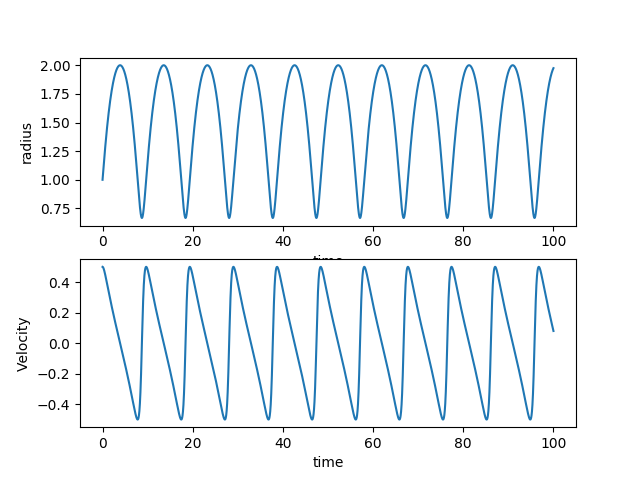
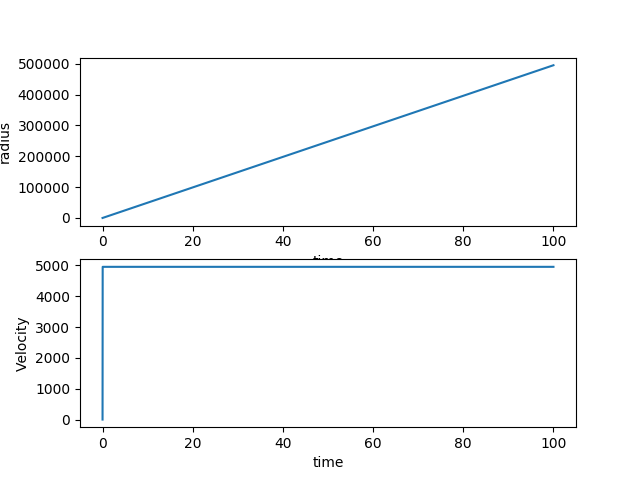
added codes

diff --git a/doc/src/Homeworks/hw7/Program/Rpot.py b/doc/src/Homeworks/hw7/Program/Rpot.py
@@ -28,9 +28,6 @@ def data_path(dat_id):
 def save_fig(fig_id):
     plt.savefig(image_path(fig_id) + ".png", format='png')
 
-
-# Simple Gravitational Force   -alpha/r
-    
 DeltaT = 0.01
 #set up arrays 
 tfinal = 100.0
@@ -39,25 +36,25 @@ n = ceil(tfinal/DeltaT)
 t = np.zeros(n)
 v = np.zeros(n)
 r = np.zeros(n)
-# Constants of the model, setting all variables to one for simplicity
-alpha = 1.0
+# Constants of the model
 AngMom = 1.0  #  The angular momentum
+beta = 1.0
 m = 1.0  # scale mass to one
 c1 = AngMom*AngMom/(m*m)
 c2 = AngMom*AngMom/m
-rmin = (AngMom*AngMom/m/alpha)
+rmin = 1.0#(AngMom*AngMom/m/beta)**(1.0/3.0)
 # Initial conditions
 r0 = rmin
-v0 = 0.0
+v0 = 0.5
 r[0] = r0
 v[0] = v0
 # Start integrating using the Velocity-Verlet  method
 for i in range(n-1):
     # Set up acceleration
-    a = -alpha/(r[i]**2)+c1/(r[i]**3)
+    a = -beta+c1/(r[i]**3)
     # update velocity, time and position using the Velocity-Verlet method
     r[i+1] = r[i] + DeltaT*v[i]+0.5*(DeltaT**2)*a
-    anew = -alpha/(r[i+1]**2)+c1/(r[i+1]**3)
+    anew = -beta+c1/(r[i+1]**3)
     v[i+1] = v[i] + 0.5*DeltaT*(a+anew)
     t[i+1] = t[i] + DeltaT
     # Plot position as function of time
